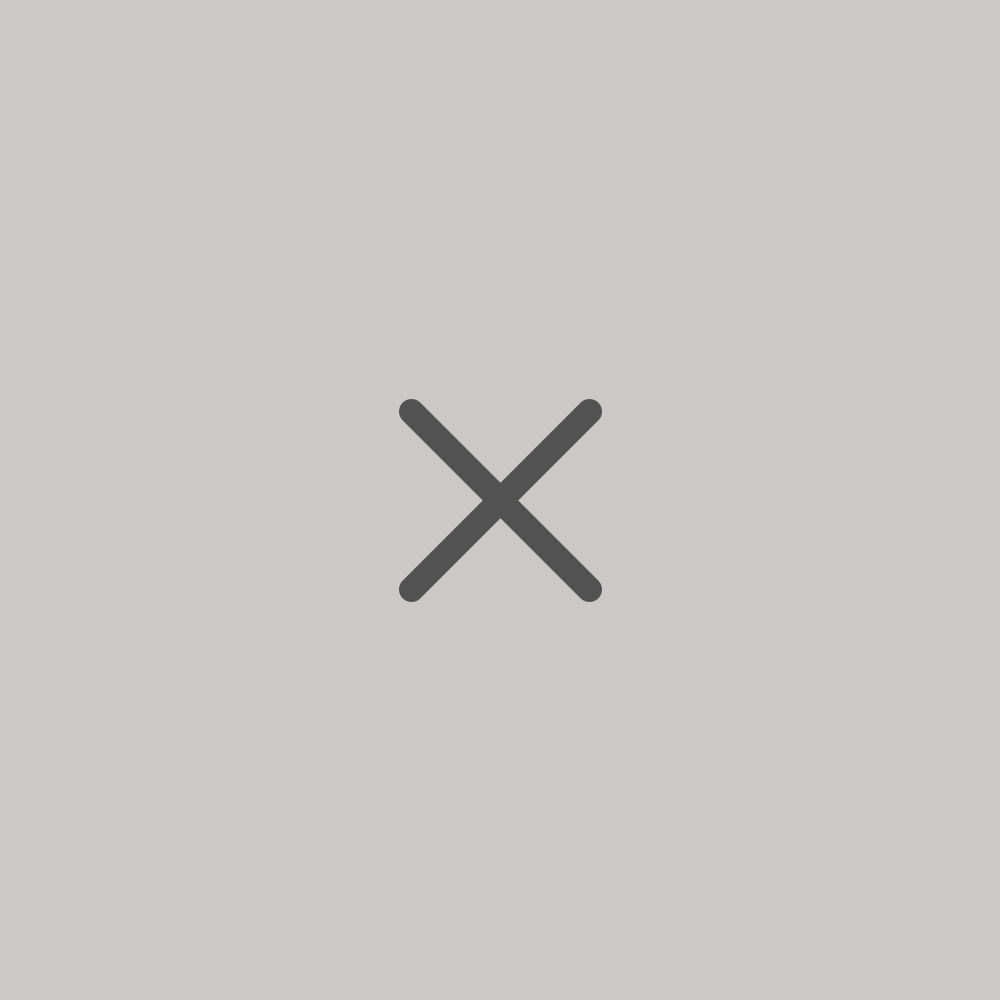
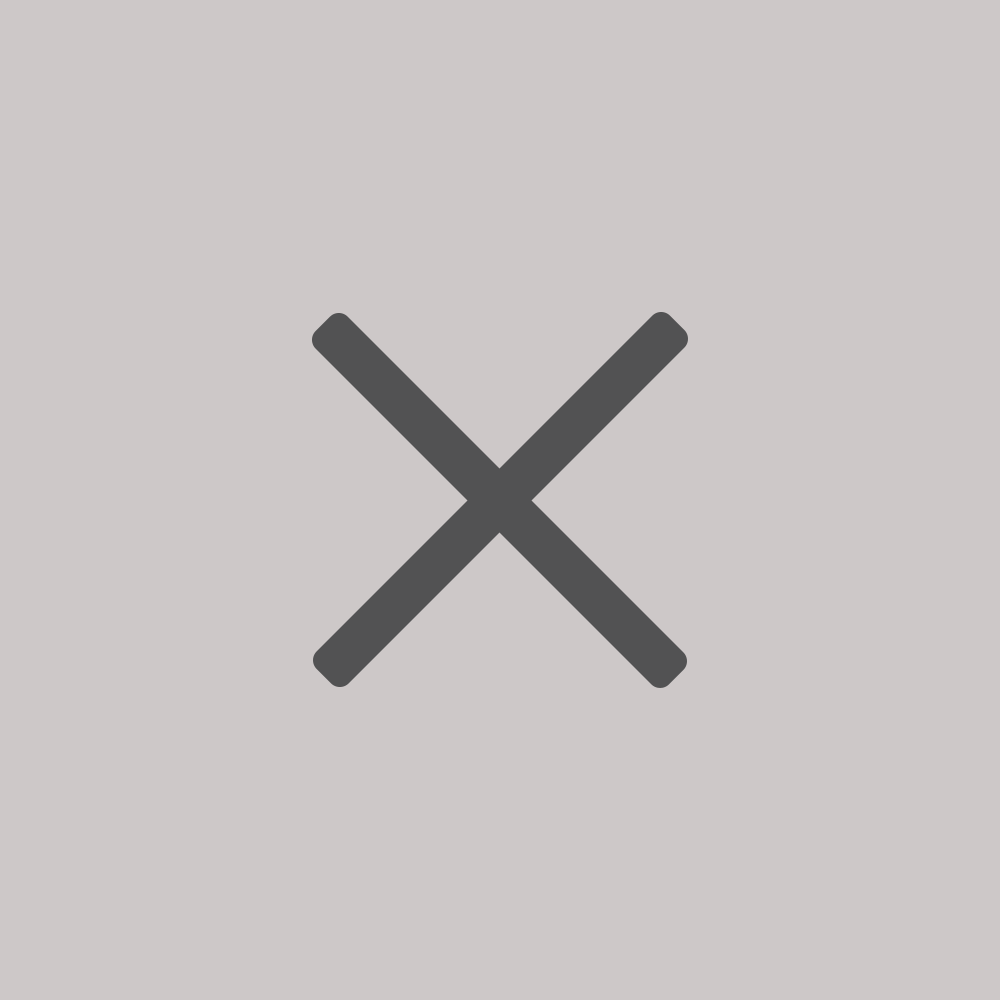
profile better

Changed region(s): [[0.31, 0.31, 0.682, 0.682]]

diff --git a/frontend/src/Components/ProfileSettings.js b/frontend/src/Components/ProfileSettings.js
@@ -5,7 +5,8 @@ const ProfileSettings = () => {
         name: 'hihi',
         about: 'Im gay',
         images: ["/original-177e8d255f0b6e0b259b6d662be56bab3379d651768a940dc8ef300dec0b41cf.jpg", "/11c7a56403bb2371acfa14a797b14571.webp"],
-        imagesChange: ["/addImg.png", "/deleteImg.png"]
+        imagesChange: ["/addImg.png", "/deleteImg.png"],
+        hobbies: ["gooning", "backshotting friends", "peanut butter + dog"]
     });
 
     const handleChange = (e) => {
@@ -33,35 +34,50 @@ const ProfileSettings = () => {
 
     return (
         <div className="max-w-2xl mx-auto p-6 bg-white shadow-md rounded-lg m-10">
-            <h2 className="text-lg font-bold mb-2">Profile Pictures</h2>
-
             <form>
+                <h2 className="text-lg font-bold mb-2 text-left">Profile Pictures</h2>
                 <div className="flex flex-wrap m-2">
-                    {formData.images.map((image, index) =>
-                        <img key={index} src={image}
-                             style={{
-                                 height: '200px',
-                                 width: 'calc(33.3333% - 8px)'}}
-                             className="rounded-lg border m-1 relative"/>
-                    )}
-                    <img src={formData.imagesChange[0]}
-                         style={{
-                             height: '200px',
-                             width: 'calc(33.3333% - 8px)',
-                             cursor: 'pointer'}}
-                         className="rounded-lg border m-1 relative"
-                         onClick={handleClickAddImage}/>
+                    {formData.images.map((image, index) => (
+                        <div key={index} className="relative m-1" style={{ width: 'calc(33.3333% - 8px)', height: '200px' }}>
+                            <img
+                                src={image}
+                                className="rounded-lg border w-full h-full object-cover"
+                            />
+                            <img
+                                src={formData.imagesChange[1]}
+                                className="rounded-full border absolute top-1 right-1 w-8 h-8 cursor-pointer"
+                                onClick={() => {
+                                    const newImages = formData.images.filter((_, i) => i !== index);
+                                    setFormData({ ...formData, images: newImages });
+                                }}
+                            />
+                        </div>
+                    ))}
+                    <img
+                        src={formData.imagesChange[0]}
+                        style={{ height: '200px', width: 'calc(33.3333% - 8px)', cursor: 'pointer' }}
+                        className="rounded-lg border m-1"
+                        onClick={handleClickAddImage}
+                    />
                 </div>
                 <input type='file' id='fileInput' style={{ display: 'none' }} onChange={handleAddImage} />
-                <label htmlFor="about" className="text-lg font-bold mb-2">About {formData.name}</label>
+                <label htmlFor="about" className="block text-lg font-bold mb-2 text-left">About {formData.name}</label>
                 <textarea
                     id="about"
                     name="about"
                     rows="4"
                     value={formData.about}
                     onChange={handleChange}
-                    className="block p-2.5 w-full text-sm rounded-lg border border-gray-300 focus:ring-blue-500 focus:border-blue-500"
+                    className="block p-2.5 w-full text-sm rounded-lg border border-gray-300 focus:ring-blue-500 focus:border-blue-500 text-left m-2"
                 ></textarea>
+                <h2 className="text-lg font-bold mb-2 text-left">{formData.name}'s Hobbies</h2>
+                <div className="flex flex-wrap m-2">
+                    {formData.hobbies.map((element, index) => (
+                        <div key={index} className="px-4 py-2 bg-gray-100 border border-gray-300 rounded shadow cursor-pointer m-1 text-sm">
+                            {element}
+                        </div>
+                    ))}
+                </div>
             </form>
         </div>
     );
